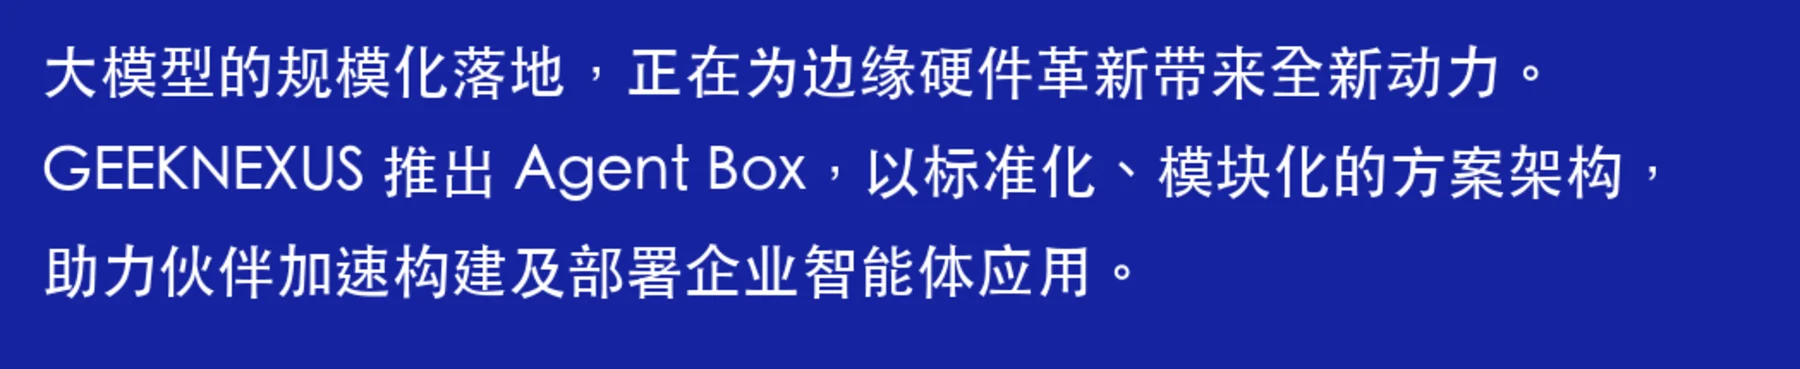
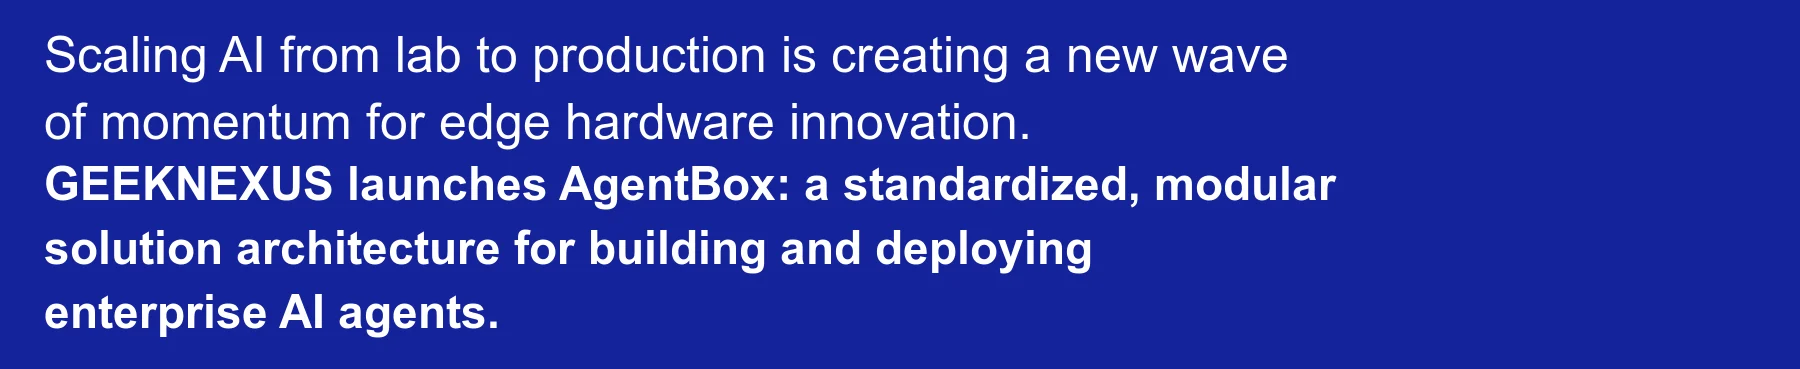
Use English-only site copy

Changed region(s): [[0.0, 0.0894, 0.9333, 0.5664], [0.0, 0.626, 0.6533, 0.9241]]

diff --git a/AGENT_DEPLOY_PROMPT.md b/AGENT_DEPLOY_PROMPT.md
@@ -3,16 +3,15 @@
 Use this prompt with a GitHub-authenticated agent:
 
 ```text
-帮我把当前仓库部署到 GitHub Pages。
+Deploy the current repository to GitHub Pages.
 
-要求：
-1. 如果当前目录还不是 git 仓库，先初始化 git 仓库。
-2. 创建或使用 GitHub 仓库，仓库名建议用 geeknexus-agentbox。
-3. 将当前静态网站文件推送到 main 分支。
-4. 启用 GitHub Pages。优先使用仓库里的 .github/workflows/pages.yml，通过 GitHub Actions 部署静态页面。
-5. 等部署完成后，把公开访问地址发给我，格式应该类似：
-   https://用户名.github.io/geeknexus-agentbox/
+Requirements:
+1. If the current directory is not already a git repository, initialize it.
+2. Create or use a GitHub repository. Suggested repository name: geeknexus-agentbox.
+3. Push the current static website files to the main branch.
+4. Enable GitHub Pages. Prefer the repository workflow at .github/workflows/pages.yml and deploy the static page through GitHub Actions.
+5. After deployment completes, send me the public URL. It should look similar to:
+   https://username.github.io/geeknexus-agentbox/
 
-这是纯静态 HTML/CSS 网站，不需要构建命令。
+This is a pure static HTML/CSS website and does not need a build command.
 ```
-
